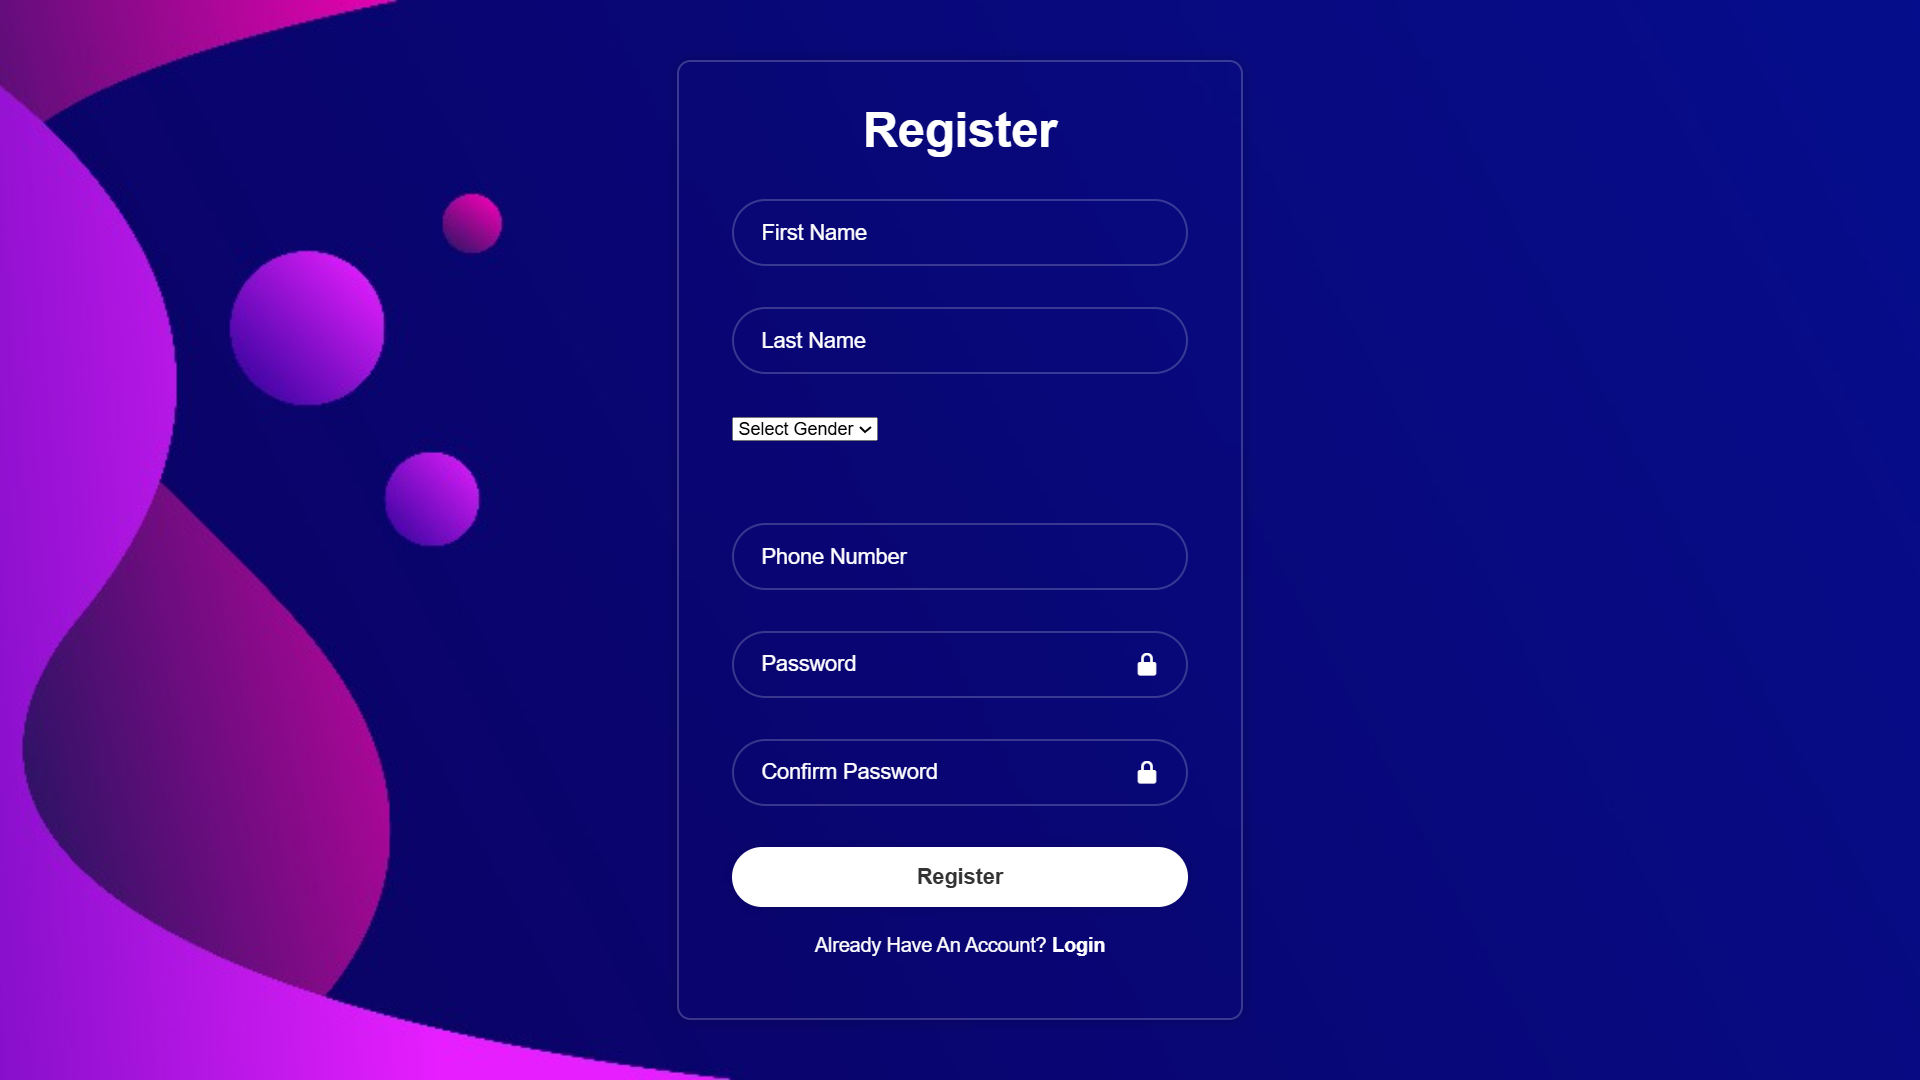
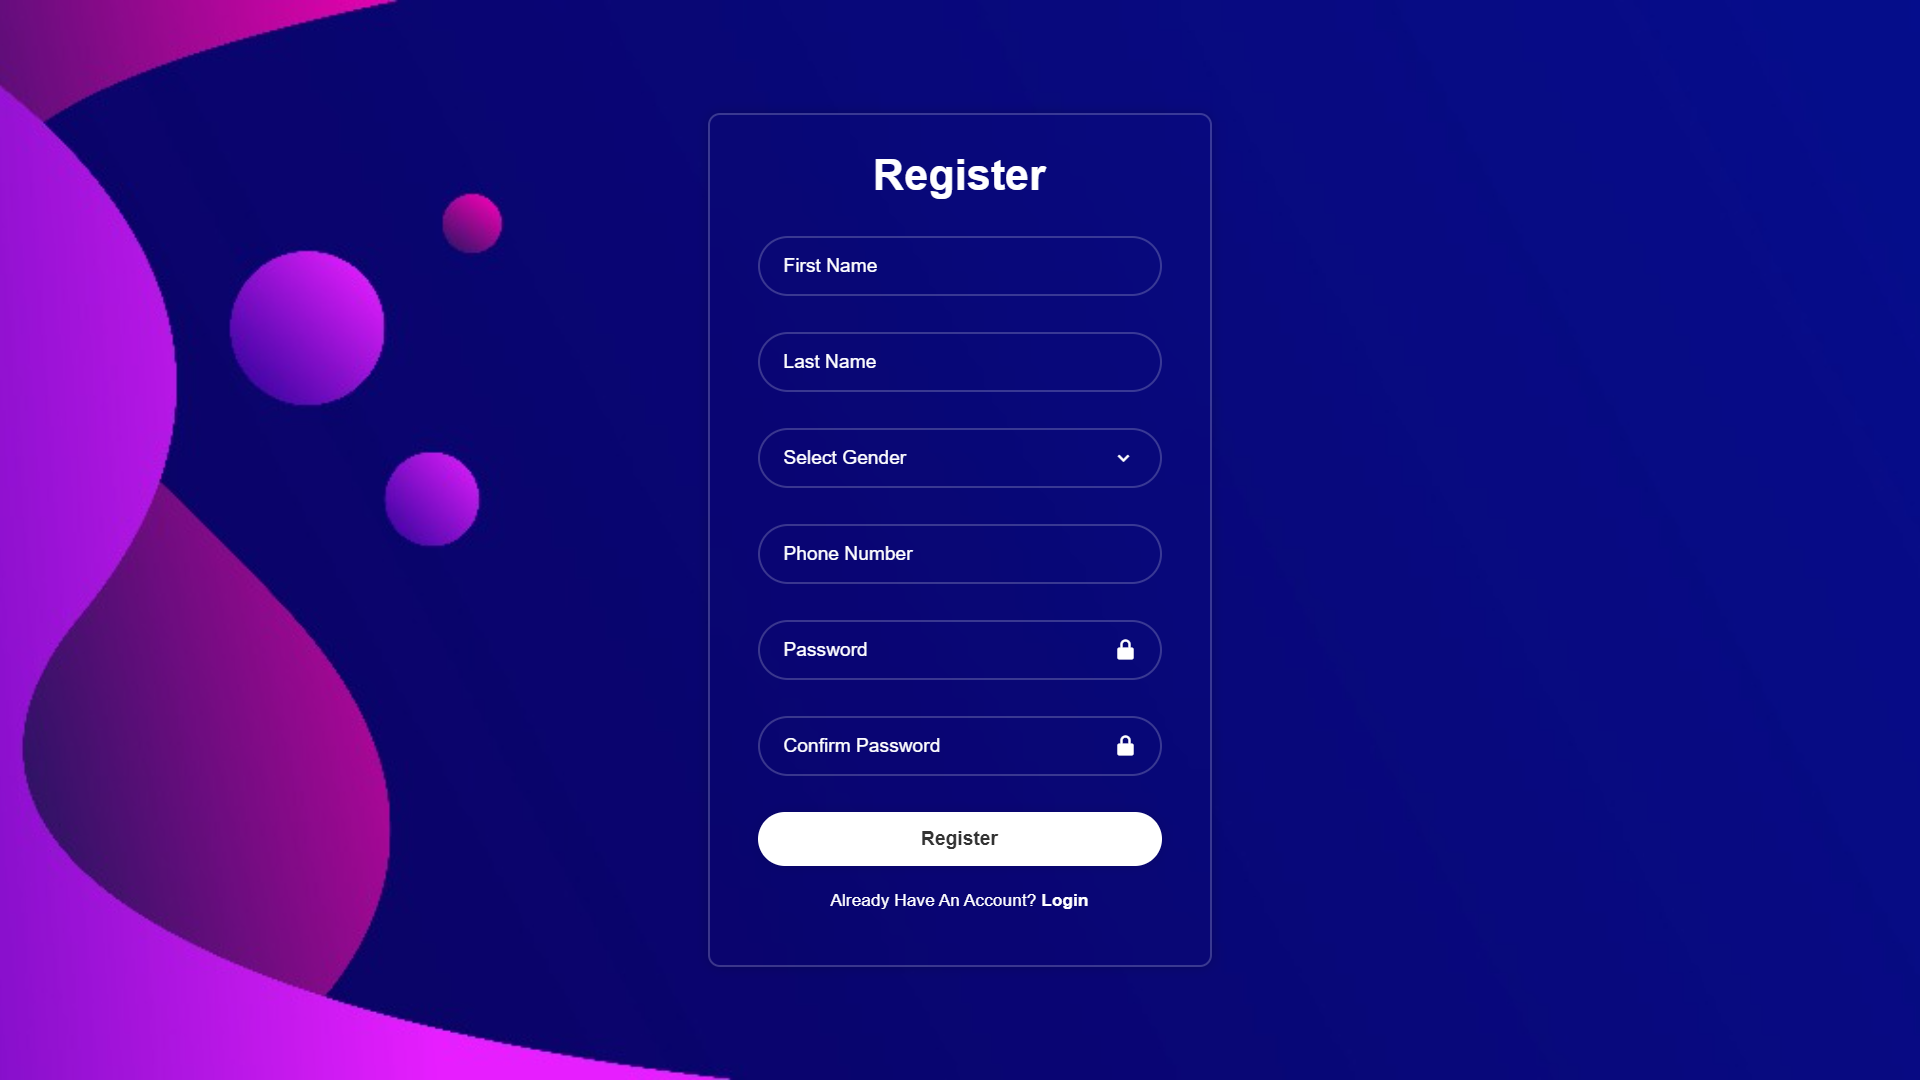
Update gender dropdown UI

diff --git a/style_login.css b/style_login.css
@@ -1,78 +1,30 @@
-*{
+* {
     margin: 0;
     padding: 0;
     box-sizing: border-box;
-    font-family: "Popins",sans-serif;
+    font-family: "Poppins", sans-serif;
 }
 
-body{
+body {
     display: flex;
     justify-content: center;
     align-items: center;
     min-height: 100vh;
-    background-image:url(images/background.jpg);
+    background-image: url("images/background.jpg");
     background-size: cover;
     background-position: center;
+    background-repeat: no-repeat;
 }
 
-.wrapper{
+.wrapper {
     width: 420px;
     background: transparent;
-    border: 2px solid rgba(255, 255, 255, .2);
+    border: 2px solid rgba(255, 255, 255, 0.2);
     backdrop-filter: blur(20px);
-    box-shadow: 0 0 10px rgba(0, 0, 0, .2);
+    box-shadow: 0 0 10px rgba(0, 0, 0, 0.2);
     color: #fff;
     border-radius: 10px;
     padding: 30px 40px;
-}
-/* Style for dropdown (gender) to match input */
-.input-box select.styled-select {
-    width: 100%;
-    height: 100%;
-    background: transparent;
-    color: #fff;
-    border: 2px solid rgba(255, 255, 255, 0.2);
-    border-radius: 40px;
-    font-size: 16px;
-    padding: 0 20px;
-    outline: none;
-    appearance: none;
-    -webkit-appearance: none;
-    -moz-appearance: none;
-}
-
-/* Optional: Add a downward arrow on the right like native selects */
-.input-box select.styled-select::-ms-expand {
-    display: none;
-}
-.input-box select.styled-select {
-    width: 100%;
-    height: 100%;
-    background: transparent;
-    color: #fff;
-    border: 2px solid rgba(255, 255, 255, .2);
-    border-radius: 40px;
-    font-size: 16px;
-    padding: 0 20px;
-    outline: none;
-    appearance: none;
-    -webkit-appearance: none;
-    -moz-appearance: none;
-    cursor: pointer;
-}
-
-.input-box select.styled-select option {
-    color: #000;
-    background: #fff;
-}
-
-.input-box i.bx-chevron-down {
-    position: absolute;
-    right: 20px;
-    top: 50%;
-    transform: translateY(-50%);
-    font-size: 20px;
-    pointer-events: none;
 }
 
 .wrapper h1 {
@@ -87,24 +39,25 @@ body{
     margin: 30px 0;
 }
 
+/* Normal input fields */
 .input-box input {
     width: 100%;
     height: 100%;
     background: transparent;
-    border: none;
+    border: 2px solid rgba(255, 255, 255, 0.2);
     outline: none;
-    border: 2px solid rgba(255, 255, 255, .2);
     border-radius: 40px;
     font-size: 16px;
     color: #fff;
     padding: 20px 45px 20px 20px;
 }
 
-.input-box input::placeholder{
+.input-box input::placeholder {
     color: #fff;
 }
 
-.input-box i{
+/* Input icons */
+.input-box i {
     position: absolute;
     right: 20px;
     top: 50%;
@@ -112,19 +65,100 @@ body{
     font-size: 20px;
 }
 
-.wrapper .remember-forgot{
+/* =========================
+   Custom Gender Dropdown
+   ========================= */
+
+.gender-dropdown {
+    position: relative;
+}
+
+.gender-select {
+    position: relative;
+    width: 100%;
+    height: 50px;
+    background: transparent;
+    border: 2px solid rgba(255, 255, 255, 0.2);
+    border-radius: 40px;
+    outline: none;
+    color: #fff;
+    font-size: 16px;
+    padding: 0 45px 0 20px;
+    text-align: left;
+    cursor: pointer;
+}
+
+.gender-select span {
+    display: block;
+    width: 100%;
+    white-space: nowrap;
+    overflow: hidden;
+    text-overflow: ellipsis;
+}
+
+.gender-select i {
+    position: absolute;
+    right: 20px;
+    top: 50%;
+    transform: translateY(-50%);
+    font-size: 20px;
+    pointer-events: none;
+    transition: transform 0.2s ease;
+}
+
+
+.gender-select.open i {
+    transform: translateY(-50%) rotate(180deg);
+}
+
+
+/* Dropdown menu */
+.gender-options {
+    display: none;
+    position: absolute;
+    top: 55px;
+    left: 0;
+    width: 100%;
+    background: rgba(20, 35, 70, 0.98);
+    border: 2px solid rgba(255, 255, 255, 0.2);
+    border-radius: 15px;
+    overflow: hidden;
+    z-index: 1000;
+    box-shadow: 0 8px 20px rgba(0, 0, 0, 0.3);
+}
+
+/* Show menu */
+.gender-options.show {
+    display: block;
+}
+
+/* Individual options */
+.gender-option {
+    padding: 13px 20px;
+    color: #fff;
+    font-size: 16px;
+    cursor: pointer;
+    transition: background 0.2s ease;
+}
+
+.gender-option:hover {
+    background: rgba(255, 255, 255, 0.15);
+}
+
+/* Remember / forgot */
+.wrapper .remember-forgot {
     display: flex;
     justify-content: space-between;
     font-size: 14.5px;
     margin: -15px 0 15px;
 }
 
-.remember-forgot lablel input {
+.remember-forgot label input {
     accent-color: #fff;
     margin-right: 3px;
 }
 
-.remember-forgot a{
+.remember-forgot a {
     color: #fff;
     text-decoration: none;
 }
@@ -133,6 +167,7 @@ body{
     text-decoration: underline;
 }
 
+/* Register button */
 .wrapper .btn {
     width: 100%;
     height: 45px;
@@ -140,16 +175,17 @@ body{
     border: none;
     outline: none;
     border-radius: 40px;
-    box-shadow: 0 0 10px rgba(0, 0, 0, .1);
+    box-shadow: 0 0 10px rgba(0, 0, 0, 0.1);
     cursor: pointer;
     font-size: 16px;
     color: #333;
     font-weight: 600;
 }
 
+/* Register / login link */
 .wrapper .register-link {
     font-size: 14.5px;
-    text-align:  center;
+    text-align: center;
     margin: 20px 0 15px;
 }
 
@@ -160,5 +196,5 @@ body{
 }
 
 .register-link p a:hover {
-    text-decoration:  underline;
+    text-decoration: underline;
 }

diff --git a/register.php b/register.php
@@ -61,14 +61,32 @@ if ($_SERVER["REQUEST_METHOD"] == "POST") {
             <div class="input-box">
                 <input type="text" name="last_name" placeholder="Last Name" required>
             </div>
-            <div class="input-box">
-                <select name="gender" required>
-                    <option value="">Select Gender</option>
-                    <option value="Male">Male</option>
-                    <option value="Female">Female</option>
-                    <option value="Other">Other</option>
-                </select>
+
+            
+            <div class="input-box gender-dropdown">
+                <input
+                    type="hidden"
+                    name="gender"
+                    id="gender"
+                    value=""
+                    required>
+
+                <button
+                    type="button"
+                    class="gender-select"
+                    id="genderSelect">
+                    <span id="genderSelected">Select Gender</span>
+                    <i class='bx bx-chevron-down'></i>
+                </button>
+
+                <div class="gender-options" id="genderOptions">
+                    <div class="gender-option" data-value="Male">Male</div>
+                    <div class="gender-option" data-value="Female">Female</div>
+                    <div class="gender-option" data-value="Other">Other</div>
+                </div>
             </div>
+
+
             <div class="input-box">
                 <input type="text" name="phone" placeholder="Phone Number" required>
             </div>
@@ -88,5 +106,43 @@ if ($_SERVER["REQUEST_METHOD"] == "POST") {
             </div>
         </form>
     </div>
+
+
+
+<script>
+    const genderSelect = document.getElementById("genderSelect");
+    const genderOptions = document.getElementById("genderOptions");
+    const genderSelected = document.getElementById("genderSelected");
+    const genderInput = document.getElementById("gender");
+    const genderOptionItems = document.querySelectorAll(".gender-option");
+
+
+    genderSelect.addEventListener("click", function () {
+        genderOptions.classList.toggle("show");
+        genderSelect.classList.toggle("open");
+    });
+
+    genderOptionItems.forEach(function (option) {
+        option.addEventListener("click", function () {
+            const selectedValue = this.getAttribute("data-value");
+
+            genderInput.value = selectedValue;
+            genderSelected.textContent = selectedValue;
+
+            genderOptions.classList.remove("show");
+            genderSelect.classList.remove("open");
+        });
+    });
+
+    document.addEventListener("click", function (event) {
+        if (!event.target.closest(".gender-dropdown")) {
+            genderOptions.classList.remove("show");
+            genderSelect.classList.remove("open");
+        }
+    });
+</script>
+
+
+
 </body>
 </html>
